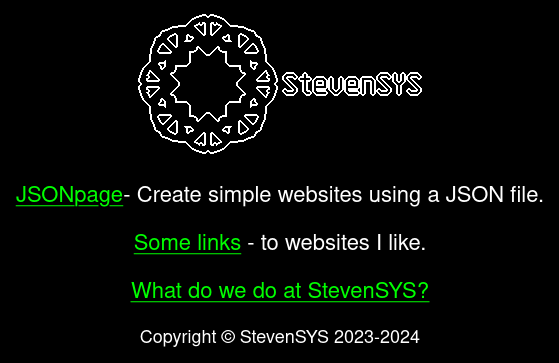
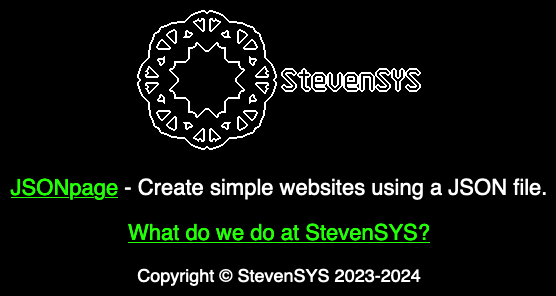
Remove the "Some Links" page.

Changed region(s): [[0.0, 0.0304, 0.9784, 0.8514], [0.2446, 0.9122, 0.7644, 0.973]]

diff --git a/index.html b/index.html
@@ -16,10 +16,6 @@
 				- Create simple websites using a JSON file.
 			</p>
 			<p>
-				<a href="/links">Some links</a>
-				- to websites I like.
-			</p>
-			<p>
 				<a href="/what">What do we do at StevenSYS?</a>
 			</p>
 			<p class="small">Copyright &#169; StevenSYS <script>if (new Date().getFullYear() > 2023) {document.write("2023-");} document.write(new Date().getFullYear());</script></p>
